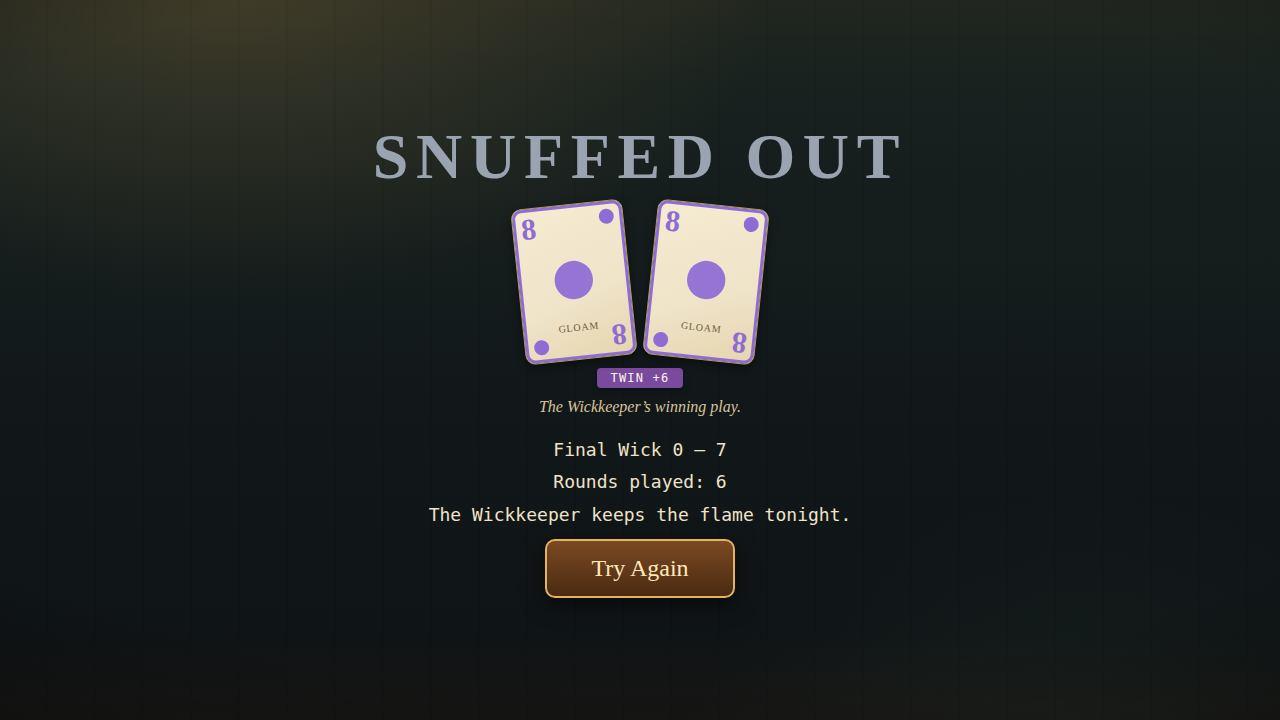
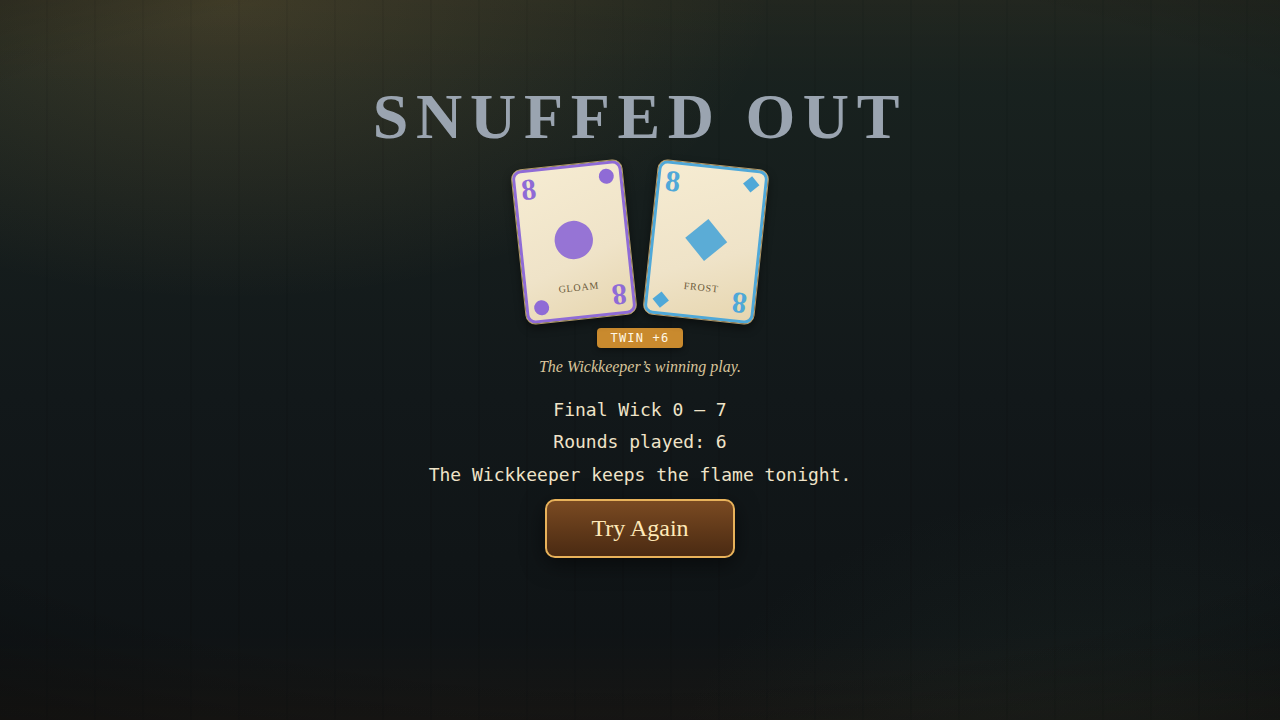
Cinderwick fix round 2: Superbot unified plan (10 must-fix + 6 nice-to-have)
- Twin is Gloam 8 + Frost 8 (different suits) on win + loss, amber ribbon
- Cover hand Gloam 4 / Frost 5 (no card twice), prompt matches the moment
- DECK 14 at Round 3/8, best-combo-only rule stated on title + How to Duel
- Kiln header KINDLED x2 DAMAGE, no diamond glyph; Heat de-duplicated,
  4 pips only; faint score copies removed; win combo labelled 80px
- KEEPER/YOU 11px 70% cream shifted left; Ember star darker gold;
  hint split 13px/1.5; title bottom line y=600; loss block up 40px

Changed region(s): [[0.2812, 0.1222, 0.7188, 0.5806], [0.3438, 0.6111, 0.6562, 0.8556]]

diff --git a/game/index.html b/game/index.html
@@ -20,13 +20,13 @@
         <div class="card suit-frost"><span class="card-value">5</span><span class="card-suit-big"><svg width="46" height="46" viewBox="0 0 24 24"><polygon points="12,1 23,12 12,23 1,12" fill="#4fa8d8"/></svg></span><span class="card-name">Frost</span></div>
         <div class="card suit-bramble"><span class="card-value">3</span><span class="card-suit-big"><svg width="46" height="46" viewBox="0 0 24 24"><g fill="#6fa844"><circle cx="12" cy="7" r="4.5"/><circle cx="6.5" cy="14.5" r="4.5"/><circle cx="17.5" cy="14.5" r="4.5"/><polygon points="10.5,16 13.5,16 15.5,22 8.5,22"/></g></svg></span><span class="card-name">Bramble</span></div>
         <div class="card suit-gloam"><span class="card-value">8</span><span class="card-suit-big"><svg width="46" height="46" viewBox="0 0 24 24"><circle cx="12" cy="12" r="10" fill="#8f6bd6"/></svg></span><span class="card-name">Gloam</span></div>
-        <div class="card suit-ember"><span class="card-value">0</span><span class="card-suit-big"><svg width="46" height="46" viewBox="0 0 24 24"><polygon points="12,1 14.6,8.2 22,8.6 16.4,13.4 18.4,20.8 12,16.8 5.6,20.8 7.6,13.4 2,8.6 9.4,8.2" fill="#e8d9a8"/></svg></span><span class="card-name">Ember Wild</span></div>
+        <div class="card suit-ember"><span class="card-value">0</span><span class="card-suit-big"><svg width="46" height="46" viewBox="0 0 24 24"><polygon points="12,1 14.6,8.2 22,8.6 16.4,13.4 18.4,20.8 12,16.8 5.6,20.8 7.6,13.4 2,8.6 9.4,8.2" fill="#c9a94a"/></svg></span><span class="card-name">Ember Wild</span></div>
       </div>
       <h1 class="wordmark">CINDERWICK</h1>
       <p class="subtitle">A duel of three lanes</p>
       <button class="big-btn" id="btn-deal">Deal a Duel</button>
       <p class="rules-line">Three lanes. Five cards. Two you can play.</p>
-      <p class="title-foot">BOND +4 &nbsp;·&nbsp; LADDER +5 &nbsp;·&nbsp; TWIN +6 &nbsp;·&nbsp; WILD 0 · COPIES SUIT &nbsp;·&nbsp; BURN FOR HEAT &nbsp;·&nbsp; SURGE FOR ONE MORE PLAY</p>
+      <p class="title-foot">BOND +4 &nbsp;·&nbsp; LADDER +5 &nbsp;·&nbsp; TWIN +6 &nbsp;·&nbsp; WILD 0 · COPIES SUIT &nbsp;·&nbsp; BURN FOR HEAT &nbsp;·&nbsp; SURGE FOR ONE MORE PLAY &nbsp;·&nbsp; BEST COMBO PER LANE</p>
       <p class="title-bottom">36 cards · 3 lanes · 8 rounds · one Kindled lane a round</p>
     </section>
 
@@ -53,19 +53,19 @@
       </div>
       <div class="lanes">
         <div class="lane" id="lane-kiln">
-          <div class="lane-head"><span class="lane-name">The Kiln</span><span class="lane-kindled-badge">◆ KINDLED · WINS 3 WICK</span></div>
+          <div class="lane-head"><span class="lane-name">The Kiln</span><span class="lane-kindled-badge">KINDLED · ×2 DAMAGE</span></div>
           <div class="lane-row"><span class="lane-row-label">KEEPER</span><div class="lane-ai-cards"></div><div class="lane-score"><span class="lane-total lane-total-ai">–</span><span class="lane-maths lane-maths-ai">—</span><span class="lane-chip lane-chip-ai"></span></div></div>
           <div class="lane-row"><span class="lane-row-label">YOU</span><div class="lane-you-cards"></div><div class="lane-score"><span class="lane-total lane-total-you">–</span><span class="lane-maths lane-maths-you">—</span><span class="lane-chip lane-chip-you"></span></div></div>
           <span class="lane-combo"></span>
         </div>
         <div class="lane" id="lane-hollow">
-          <div class="lane-head"><span class="lane-name">The Hollow</span><span class="lane-kindled-badge">◆ KINDLED · WINS 3 WICK</span></div>
+          <div class="lane-head"><span class="lane-name">The Hollow</span><span class="lane-kindled-badge">KINDLED · ×2 DAMAGE</span></div>
           <div class="lane-row"><span class="lane-row-label">KEEPER</span><div class="lane-ai-cards"></div><div class="lane-score"><span class="lane-total lane-total-ai">–</span><span class="lane-maths lane-maths-ai">—</span><span class="lane-chip lane-chip-ai"></span></div></div>
           <div class="lane-row"><span class="lane-row-label">YOU</span><div class="lane-you-cards"></div><div class="lane-score"><span class="lane-total lane-total-you">–</span><span class="lane-maths lane-maths-you">—</span><span class="lane-chip lane-chip-you"></span></div></div>
           <span class="lane-combo"></span>
         </div>
         <div class="lane" id="lane-tide">
-          <div class="lane-head"><span class="lane-name">The Tide</span><span class="lane-kindled-badge">◆ KINDLED · WINS 3 WICK</span></div>
+          <div class="lane-head"><span class="lane-name">The Tide</span><span class="lane-kindled-badge">KINDLED · ×2 DAMAGE</span></div>
           <div class="lane-row"><span class="lane-row-label">KEEPER</span><div class="lane-ai-cards"></div><div class="lane-score"><span class="lane-total lane-total-ai">–</span><span class="lane-maths lane-maths-ai">—</span><span class="lane-chip lane-chip-ai"></span></div></div>
           <div class="lane-row"><span class="lane-row-label">YOU</span><div class="lane-you-cards"></div><div class="lane-score"><span class="lane-total lane-total-you">–</span><span class="lane-maths lane-maths-you">—</span><span class="lane-chip lane-chip-you"></span></div></div>
           <span class="lane-combo"></span>
@@ -73,12 +73,11 @@
       </div>
       <div id="player-hand"></div>
       <div id="ember-rule">Ember Wild copies the suit of the other card in its lane and adds 0.</div>
-      <div class="table-foot">Click a card, then click a lane to play it. Each round you place two cards — the third lane is the one you concede.
+      <div class="table-foot">Click a card, then click a lane to play it.<br>Each round you place two cards — the third lane is the one you concede.
         <button id="btn-resolve" style="display:none">Reveal</button>
       </div>
       <div class="table-footer">
-        <div class="foot-left">HEAT <b id="foot-heat-num">0</b><span id="foot-surge-wrap" style="display:none"> · <span class="surge-chip">SURGE READY</span></span></div>
-        <div class="foot-mid">DECK <span id="deck-count">36</span></div>
+        <div class="foot-left">DECK <span id="deck-count">36</span></div>
         <div class="foot-right">
           <button id="btn-burn" disabled>Burn: select a card first</button>
           <button id="btn-surge" disabled>Surge +1 placement (4 Heat)</button>
@@ -109,6 +108,7 @@
           <li><b>Bond +4</b> — two cards of the same suit in one lane.</li>
           <li><b>Ladder +5</b> — two consecutive values, either order.</li>
           <li><b>Twin +6</b> — two equal values. Highest combo only, never stacked.</li>
+          <li><b>Best combo only</b> — a lane counts only its best combo: Ladder beats Bond.</li>
           <li><b>Ember Wild</b> — copies the other card's suit for a Bond, adds 0, never a Ladder or Twin.</li>
           <li><b>Burn</b> — once a round, discard a card to bank Heat equal to its value.</li>
           <li><b>Surge</b> — spend 4 Heat for one extra placement this round.</li>

diff --git a/game/css/table.css b/game/css/table.css
@@ -65,14 +65,14 @@
 .big-btn:hover { filter: brightness(1.2); }
 .rules-line { margin-top: 22px; font-size: 18px; color: #cbb98e; }
 .title-foot { margin-top: 34px; font-size: 14px; color: #8fa08f; font-family: ui-monospace, monospace; }
-.title-bottom { position: absolute; top: 660px; left: 0; right: 0; text-align: center; font-size: 14px; color: #8fa08f; font-family: ui-monospace, monospace; margin: 0; }
+.title-bottom { position: absolute; top: 600px; left: 0; right: 0; text-align: center; font-size: 14px; color: #8fa08f; font-family: ui-monospace, monospace; margin: 0; }
 
 /* ---- Table HUD ---- */
 .hud {
   display: grid;
   grid-template-columns: 300px 1fr 300px;
   align-items: start;
-  padding: 8px 20px 0;
+  padding: 4px 20px 0;
   gap: 12px;
 }
 .wick-panel { background: rgba(0, 0, 0, 0.35); border: 1px solid rgba(232, 178, 90, 0.35); border-radius: 10px; padding: 6px 12px; }
@@ -101,8 +101,7 @@
 }
 .foot-left, .foot-right { display: flex; align-items: center; gap: 8px; }
 .foot-left b { color: #ffcf7a; }
-.foot-mid { position: absolute; left: 50%; transform: translateX(-50%); letter-spacing: 0.1em; }
-.foot-mid span { color: #ffcf7a; }
+.foot-left span { color: #ffcf7a; }
 .table-footer button {
   font-family: Georgia, serif; font-size: 14px; margin-left: 6px; padding: 7px 12px;
   border-radius: 8px; border: 1px solid #6b543a; background: #24302a; color: #efe3c8; cursor: pointer;
@@ -112,7 +111,7 @@
 #ai-hand-count { font-family: ui-monospace, monospace; font-size: 12px; color: #a8b8a0; margin-top: 2px; }
 
 /* ---- Lanes ---- */
-.lanes { display: flex; gap: 18px; justify-content: center; padding: 6px 20px 0; }
+.lanes { display: flex; gap: 18px; justify-content: center; padding: 0 20px 0; }
 .lane {
   width: 380px;
   background: rgba(0, 0, 0, 0.28);
@@ -130,7 +129,7 @@
 .lane-name { font-size: 19px; letter-spacing: 0.06em; color: #f4e6bd; }
 .lane-kindled-badge { font-size: 12px; color: #ffb35a; letter-spacing: 0.1em; visibility: hidden; }
 .lane-row { display: flex; align-items: center; gap: 8px; min-height: 106px; }
-.lane-row-label { font-size: 11px; color: rgba(239, 227, 200, 0.7); width: 34px; letter-spacing: 0.05em; flex-shrink: 0; }
+.lane-row-label { font-size: 11px; color: rgba(239, 227, 200, 0.7); width: 34px; letter-spacing: 0.05em; flex-shrink: 0; margin-left: -6px; }
 .lane-ai-cards, .lane-you-cards { display: flex; gap: 6px; flex: 1; min-height: 106px; align-items: center; }
 .lane-ai-cards .card, .lane-you-cards .card { width: 76px; height: 106px; }
 .lane-ai-cards .card .card-value, .lane-you-cards .card .card-value { font-size: 26px; }
@@ -153,17 +152,18 @@
 /* ---- Hands ---- */
 #ai-hand { display: flex; gap: 6px; justify-content: flex-end; min-height: 56px; }
 #ai-hand .card { width: 40px; height: 56px; }
-#player-hand { display: flex; gap: 10px; justify-content: center; padding: 16px 20px 0; min-height: 160px; }
+#player-hand { display: flex; gap: 10px; justify-content: center; padding: 0 20px 0; min-height: 160px; }
 #player-hand .card { width: 112px; height: 156px; }
-#ember-rule { text-align: center; font-size: 12px; color: #a8b8a0; padding-top: 0; }
+#ember-rule { text-align: center; font-size: 13px; color: #a8b8a0; padding-top: 2px; }
 #player-hand .card { cursor: pointer; }
 #player-hand .card:hover { transform: translateY(-10px) rotate(1deg); }
 #player-hand .card.selected { transform: translateY(-14px); outline: 3px solid #ffb35a; }
-.table-foot { text-align: center; font-size: 13px; color: #8fa08f; padding-top: 2px; }
+.table-foot { text-align: center; font-size: 13px; line-height: 1.5; color: #8fa08f; padding-top: 2px; }
 #btn-resolve { margin-top: 6px; }
 
 /* ---- Win / loss ---- */
-#screen-win, #screen-loss { text-align: center; padding-top: 120px; }
+#screen-win { text-align: center; padding-top: 120px; }
+#screen-loss { text-align: center; padding-top: 80px; }
 #screen-win h1 { font-size: 64px; color: #ffd97a; text-shadow: 0 0 30px rgba(255, 200, 90, 0.8); margin: 0; letter-spacing: 0.1em; }
 #screen-loss h1 { font-size: 64px; color: #9aa4b0; margin: 0; letter-spacing: 0.12em; }
 .end-stats { font-family: ui-monospace, monospace; font-size: 18px; color: #efe3c8; margin: 18px 0 8px; line-height: 1.8; }
@@ -173,18 +173,18 @@
 .twin-pair .card { width: 110px; height: 154px; }
 .twin-pair .card:first-child { transform: rotate(-6deg); }
 .twin-pair .card:last-child { transform: rotate(6deg); }
-.twin-ribbon { display: inline-block; margin-top: 8px; background: #7a4a9e; color: #fff8e6; font-family: ui-monospace, monospace; font-size: 12px; letter-spacing: 0.1em; padding: 3px 14px; border-radius: 4px; box-shadow: 0 2px 6px rgba(0, 0, 0, 0.4); }
+.twin-ribbon { display: inline-block; margin-top: 8px; background: #c98a2e; color: #fff8e6; font-family: ui-monospace, monospace; font-size: 12px; letter-spacing: 0.1em; padding: 3px 14px; border-radius: 4px; box-shadow: 0 2px 6px rgba(0, 0, 0, 0.4); }
 .loss-caption { font-size: 16px; font-style: italic; color: #d8c49a; margin: 10px 0 0; }
-/* Win-screen mini pair: 40px cards, ribbon beside them. */
-.twin-mini { display: flex; align-items: center; justify-content: center; gap: 10px; }
-.twin-mini .twin-pair { gap: 6px; }
-.twin-mini .twin-pair .card { width: 40px; height: 56px; }
-.twin-mini .twin-pair .card .card-value, .twin-mini .twin-pair .card .card-value-mirror { font-size: 15px; top: 3px; left: 5px; }
-.twin-mini .twin-pair .card .card-value-mirror { left: auto; right: 5px; bottom: 3px; }
-.twin-mini .twin-pair .card .card-suit-top, .twin-mini .twin-pair .card .card-suit-bottom,
-.twin-mini .twin-pair .card .card-name { display: none; }
-.twin-mini .twin-pair .card .card-suit-big svg { width: 20px; height: 20px; }
-.twin-mini .twin-ribbon { margin-top: 0; }
+/* Win-screen combo: labelled, full-size pair (80px cards) with the amber
+   ribbon under both cards, matching the loss screen's weight. */
+.win-combo { display: flex; flex-direction: column; align-items: center; gap: 8px; }
+.win-best-label { font-size: 14px; font-style: italic; color: #d8c49a; }
+.win-combo .twin-pair { gap: 20px; }
+.win-combo .twin-pair .card { width: 80px; height: 112px; }
+.win-combo .twin-pair .card .card-value, .win-combo .twin-pair .card .card-value-mirror { font-size: 22px; }
+.win-combo .twin-pair .card .card-suit-top, .win-combo .twin-pair .card .card-suit-bottom { display: none; }
+.win-combo .twin-pair .card .card-suit-big svg { width: 34px; height: 34px; }
+.win-combo .twin-ribbon { margin-top: 0; }
 #win-best { display: block; }
 #burst-layer { position: absolute; inset: 0; pointer-events: none; }
 

diff --git a/game/js/screens.js b/game/js/screens.js
@@ -20,11 +20,13 @@
   function showWin(state) {
     document.getElementById('win-wick').textContent = 'Final Wick ' + state.wick.you + ' – ' + state.wick.ai;
     document.getElementById('win-rounds').textContent = 'Rounds played: ' + Math.min(state.round, CW.MAX_ROUNDS);
-    // The winning Twin, shown as the same pair as on the loss screen.
+    // The winning Twin: two 8s of DIFFERENT suits (equal values, not equal
+    // cards), labelled and full-size.
     var best = document.getElementById('win-best');
     if (state.bestCombo === 'Twin +6') {
-      best.innerHTML = '<span class="twin-mini">' + twinPairHtml() +
-        '<span class="twin-ribbon">TWIN +6</span></span>';
+      best.innerHTML = '<div class="win-combo"><div class="win-best-label">Your best play:</div>' +
+        twinPairHtml() +
+        '<span class="twin-ribbon">TWIN +6</span></div>';
     } else {
       best.textContent = 'Best combo: ' + (state.bestCombo || 'Bond +4');
     }
@@ -32,11 +34,12 @@
     CW.winBurst();
   }
 
-  // Two Gloam 8s, the Twin pair both end screens carry.
+  // Twin pair: Gloam 8 + Frost 8 — equal values, different suits, one card
+  // of each in the 36-card deck. Both end screens carry the same pair.
   function twinPairHtml() {
     return '<div class="twin-pair">' +
       CW.cardHtml(CW.makeCard('gloam', 8, 'twin-a'), {}) +
-      CW.cardHtml(CW.makeCard('gloam', 8, 'twin-b'), {}) + '</div>';
+      CW.cardHtml(CW.makeCard('frost', 8, 'twin-b'), {}) + '</div>';
   }
 
   function showLoss(state) {
@@ -67,7 +70,9 @@
   // Cover (?shot=table): exactly two placements per side, the Ladder as the
   // story, the keeper's 8 in the Kiln it announced. Kiln: you 6♦ 7♦ (Ladder
   // +5 = 18) vs keeper 8♦. Hollow: keeper 5● wins 1 Wick. Tide unclaimed.
-  // Wick YOU 10, KEEPER 11. Heat 4, Surge ready. Deck 20.
+  // Wick YOU 10, KEEPER 11. Heat 4, Surge ready. Deck 14 (36 − 10 in hands
+  // − 4 on the table − 8 played in rounds 1–2). Hand holds no card that is
+  // already on the table.
   function seedTableState() {
     var s = freshState();
     s.phase = 'table';
@@ -77,7 +82,7 @@
     s.temperLine = CW.temperLine('kiln');
     s.wick = { you: 10, ai: 11 };
     s.heat = { you: 4, ai: 2 };
-    s.deckCount = 20;
+    s.deckCount = 14;
     s.lanes.kiln.you = [CW.makeCard('frost', 6, 's-k1'), CW.makeCard('frost', 7, 's-k2')];
     s.lanes.kiln.ai = [CW.makeCard('frost', 8, 's-k3')];
     s.lanes.hollow.you = [];
@@ -86,8 +91,8 @@
     s.lanes.tide.ai = [];
     s.hands.you = [
       CW.makeCard('flame', 8, 's-y1'), CW.makeCard('bramble', 2, 's-y2'),
-      CW.makeCard('ember', 0, 's-y3'), CW.makeCard('gloam', 5, 's-y4'),
-      CW.makeCard('frost', 4, 's-y5')
+      CW.makeCard('ember', 0, 's-y3'), CW.makeCard('gloam', 4, 's-y4'),
+      CW.makeCard('frost', 5, 's-y5')
     ];
     s.hands.ai = [
       CW.makeCard('flame', 3, 's-a1'), CW.makeCard('frost', 6, 's-a2'),
@@ -96,7 +101,7 @@
     ];
     s.flare = null;
     s.bestCombo = 'Ladder +5';
-    s.log = 'Your move — place two cards, then the Wickkeeper answers.';
+    s.log = 'Both sides have placed — the lanes resolve.';
     return s;
   }
 

diff --git a/game/js/ui.js b/game/js/ui.js
@@ -41,14 +41,13 @@
     el('wick-ai-num').textContent = state.wick.ai;
     el('heat-you-num').textContent = state.heat.you;
     el('heat-ai-num').textContent = state.heat.ai;
-    // One flame pip per Heat, up to eight shown.
+    // One flame pip per Heat held, and no empty slots: Heat has no cap,
+    // so a fixed track would wrongly imply one.
     var pips = '';
-    for (var p = 0; p < 8; p++) pips += '<span class="heat-pip' + (p < state.heat.you ? ' on' : '') + '">▲</span>';
+    for (var p = 0; p < state.heat.you; p++) pips += '<span class="heat-pip on">▲</span>';
     el('heat-pips-you').innerHTML = pips;
     var surgeReady = CW.canSurge(state, 'you');
     el('surge-chip-you').style.display = surgeReady ? '' : 'none';
-    el('foot-surge-wrap').style.display = surgeReady ? '' : 'none';
-    el('foot-heat-num').textContent = state.heat.you;
     var deckCount = (state.deckCount != null) ? state.deckCount : state.deck.length;
     el('deck-count').textContent = deckCount;
     el('round-label').textContent = 'Round ' + Math.min(state.round, CW.MAX_ROUNDS) + ' / ' + CW.MAX_ROUNDS;

diff --git a/game/js/lanes.js b/game/js/lanes.js
@@ -7,11 +7,13 @@
   function el(id) { return document.getElementById(id); }
 
   // Sum-then-result, combo named in the chip, never in the sum:
-  // "6 + 7 + 5 = 18" for a Ladder, "8" for a lone card, "—" for an empty row.
+  // "6 + 7 + 5 = 18" for a Ladder, nothing for a lone card (its big total
+  // already says the value — a small copy underneath is clutter), "—" for
+  // an empty row.
   function mathsText(cards) {
     if (!cards.length) return '—';
     var s = CW.scoreLane(cards);
-    if (cards.length === 1) return String(s.sum);
+    if (cards.length === 1) return '';
     var parts = cards.map(function (c) { return String(c.value); });
     if (s.combo) parts.push(String(s.bonus));
     return parts.join(' + ') + ' = ' + s.total;

diff --git a/game/js/cards.js b/game/js/cards.js
@@ -9,7 +9,7 @@
     frost:   { name: 'Frost',   color: '#4fa8d8', shape: 'diamond',  glyph: '◆' },
     bramble: { name: 'Bramble', color: '#6fa844', shape: 'club',     glyph: '♣' },
     gloam:   { name: 'Gloam',   color: '#8f6bd6', shape: 'circle',   glyph: '●' },
-    ember:   { name: 'Ember Wild', color: '#e8d9a8', shape: 'star',  glyph: '✶' }
+    ember:   { name: 'Ember Wild', color: '#c9a94a', shape: 'star',  glyph: '✶' }
   };
 
   // Inline SVG for a suit shape, drawn from paths (no text, no network).
